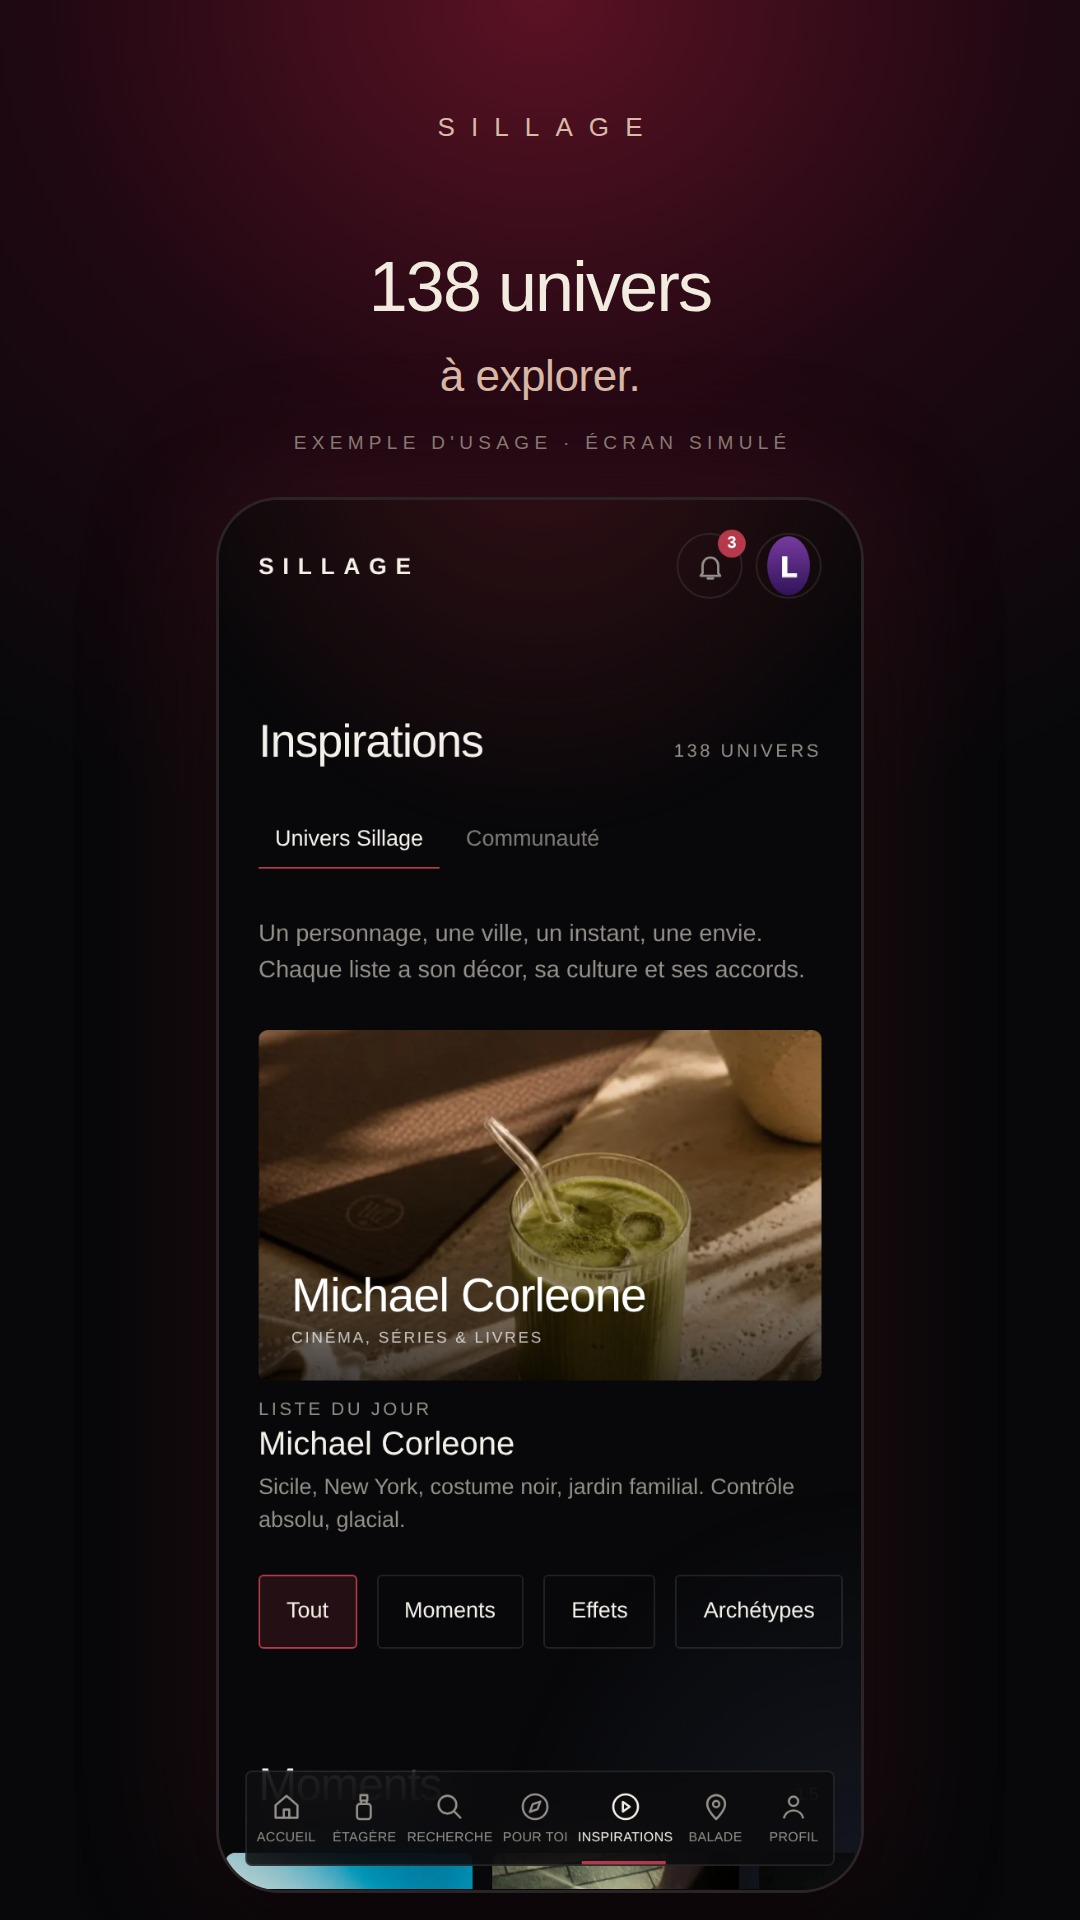
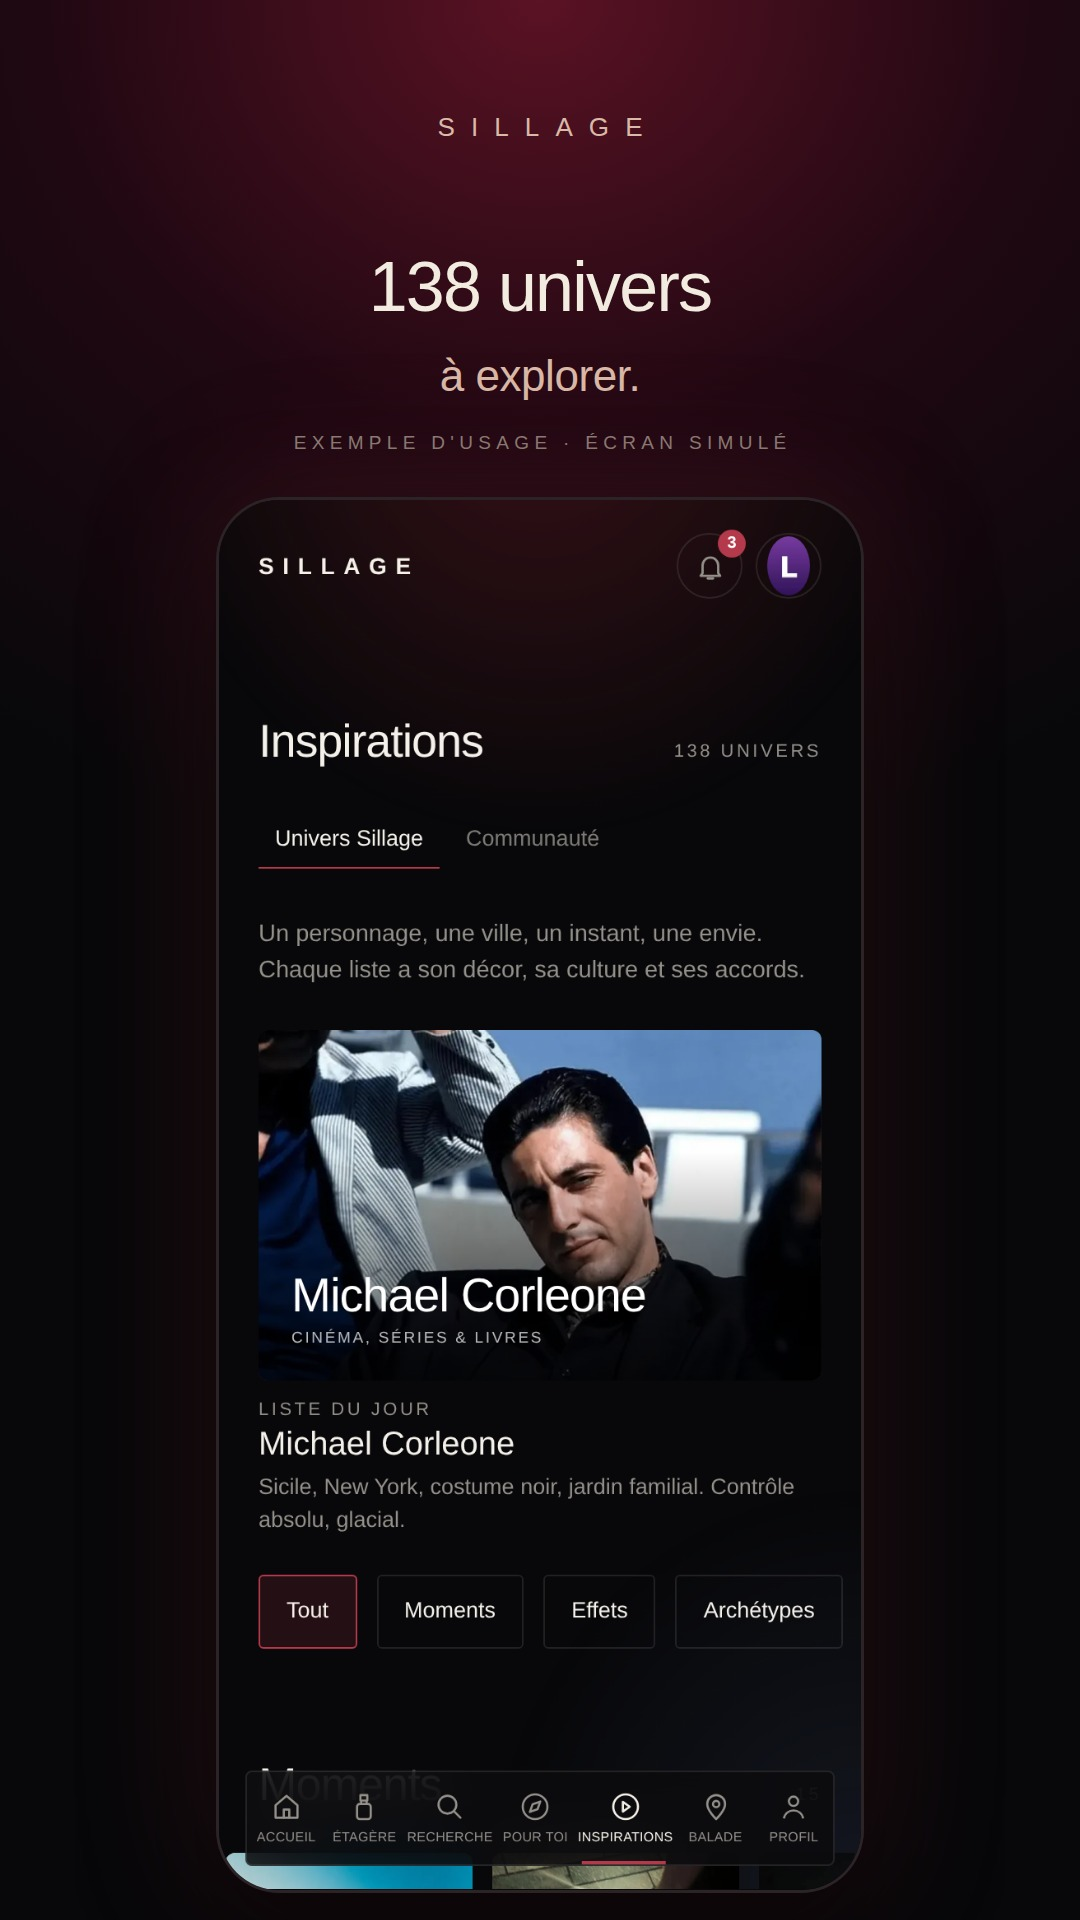
Couvertures corrigées (Michael Corleone, Thomas Shelby, Ski Weekend, John Wick, Hannibal Lecter) : un fichier de la carte des couvertures ne va plus qu'à la playlist qu'il nomme ; visuels de story refaits (Frédéric Malle, vraies photos)
Claude-Session: https://claude.ai/code/session_01CpLgkWtcn85iwC2K3o6Dgb

Changed region(s): [[0.2139, 0.5312, 0.7639, 0.7188]]

diff --git a/parfumier/tools/build-covers.py b/parfumier/tools/build-covers.py
@@ -23,7 +23,9 @@ for f in sorted(inbox.glob('*')) if inbox.exists() else []:
     if f.suffix.lower() not in ('.jpg', '.jpeg', '.png', '.webp'): continue
     mp = MAP.get(f.name)
     if mp == '-': continue
-    k = slug(mp) if mp else slug(f.stem); p = by_slug.get(k) or by_id.get(f.stem.strip()) or by_slug.get(re.sub(r'^\d+-', '', k))
+    k = slug(mp) if mp else slug(f.stem)
+    # Un fichier nommé dans covers-map.txt ne va qu'à la playlist qu'il nomme : si elle a été fusionnée ou supprimée, on ignore l'image (sinon son numéro tombait sur une autre playlist et écrasait sa couverture).
+    p = by_slug.get(k) if mp else (by_slug.get(k) or by_id.get(f.stem.strip()) or by_slug.get(re.sub(r'^\d+-', '', k)))
     if not p: lost.append(f.name); continue
     im = split(f)[0] if f.name in MAP else Image.open(f).convert('RGB'); im.thumbnail((900, 900)); im.save(out / (p['s'] + '.webp'), 'WEBP', quality=78, method=6); done += 1
 print('couvertures :', done, '| fichiers sans playlist :', lost)
